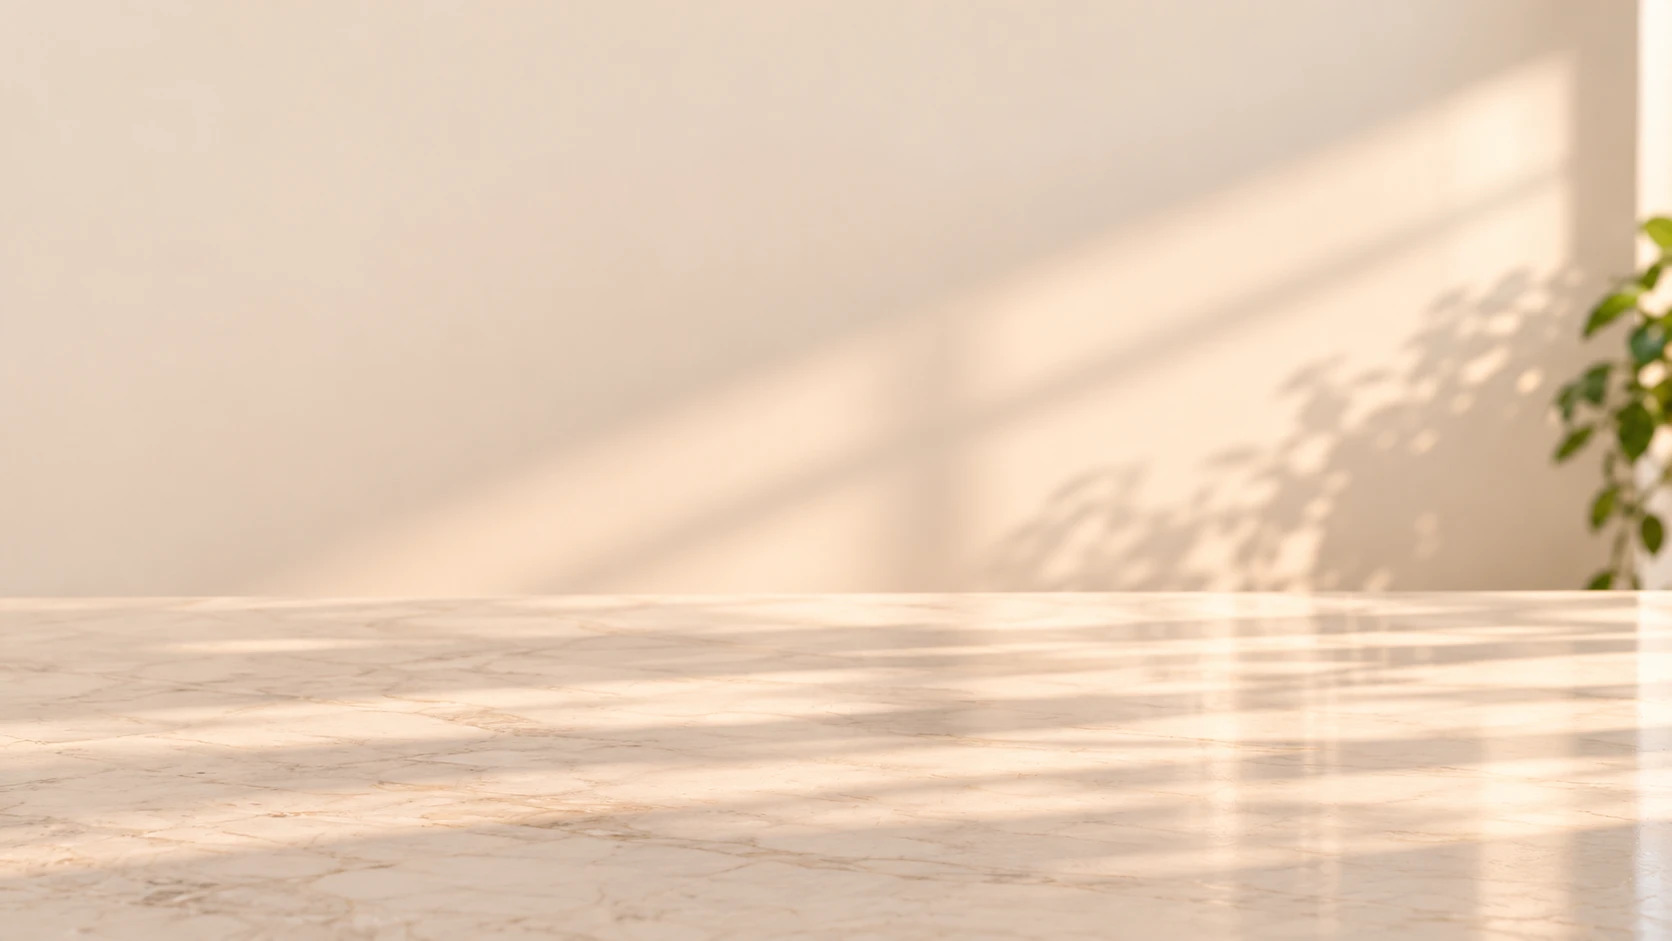
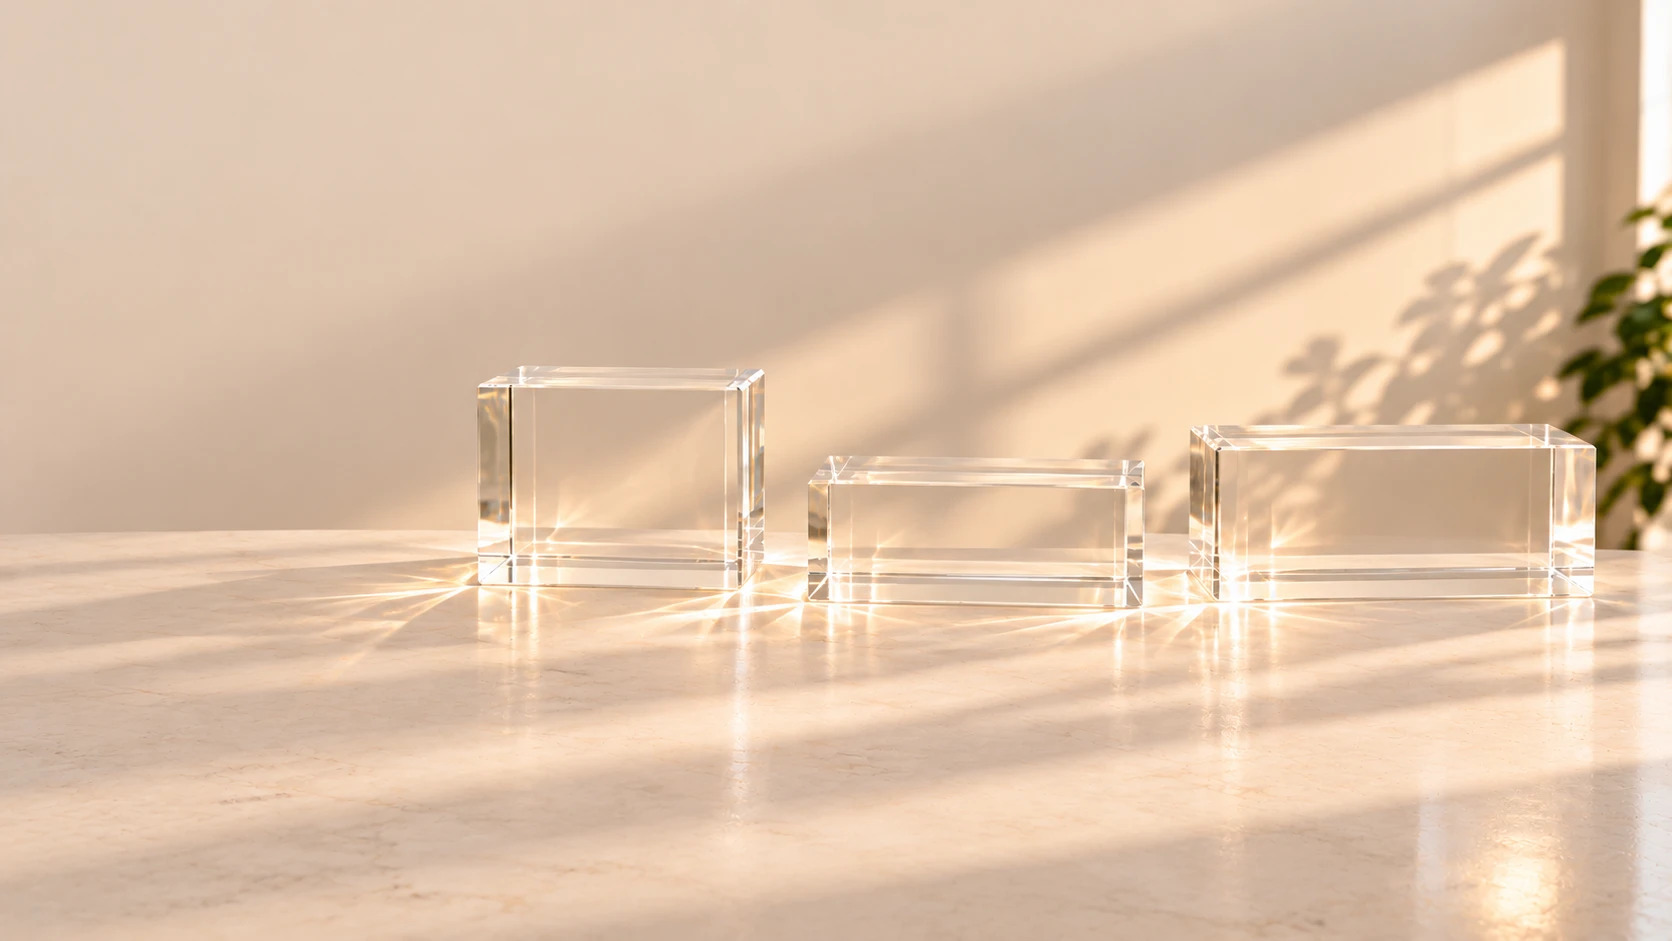
Curiosity homepage: photographic acrylic blocks and museum labels
Use the new background with three photographic acrylic blocks in the
back row (Lab, Experience, Education) and remove all six CSS stands.
The foreground exhibits (Selected Work, About, Contact) sit directly on
the table, with no stand. Labels are now small ivory museum placards
(number, title, short description, arrow): across the lower front of
each block for the back row, and in front of where each foreground
object will go. The back-row blocks are clickable as part of their
exhibit link; each exhibit keeps an empty .ch-object slot for phase 2.

Claude-Session: https://claude.ai/code/session_01Qm8igv5Ge8dJuqu5xyPJW1

diff --git a/src/App.tsx b/src/App.tsx
@@ -367,21 +367,15 @@ function ExhibitLabel({
 }
 
 /* ------------------------------------------------------------------
-   Cabinet-of-curiosities homepage (phase 1: background, type, stands)
-   Geometry is in pixels of the 1672 × 941 reference/background image and
-   converted to container units in CSS, so everything stays locked to the
-   photograph at any size. Each exhibit has an empty `.ch-object` slot for
-   the photorealistic object added in phase 2.
+   Cabinet-of-curiosities homepage
+   Background: public/home-background.jpg (1672 × 941) — cream wall, marble
+   table and three photographic acrylic blocks (back row). Geometry is in
+   pixels of that image and converted to container units in CSS, so the
+   labels and object slots stay locked to the photograph at any size.
+   Each exhibit has an empty `.ch-object` slot for its phase-2 object.
 ------------------------------------------------------------------- */
 
-type Stand = {
-  x: number // front face, top-left corner
-  y: number
-  w: number // front face width
-  h: number // front face height
-  d: number // visible depth of the top face
-  s: number // horizontal shift of the back edge (+ shows right side, − shows left side)
-}
+type Rect = { x: number; y: number; w: number; h: number }
 
 type Exhibit = {
   key: string
@@ -389,94 +383,49 @@ type Exhibit = {
   title: string
   description: string
   href: string
-  stand: Stand
-  label: { x: number; y: number; w: number; h: number; r: number }
+  /** Where the object will sit; for back-row exhibits this includes the acrylic block. */
+  area: Rect
+  /** Back-row exhibits stand on a photographic acrylic block, which is clickable. */
+  onBlock: boolean
+  label: Rect
 }
 
 const exhibits: Exhibit[] = [
   {
     key: "work", number: "01", title: "Selected Work", description: "Case studies and featured projects", href: "#selected-work",
-    stand: { x: 330, y: 786, w: 465, h: 120, d: 40, s: 26 },
-    label: { x: 372, y: 798, w: 398, h: 104, r: -3 },
+    area: { x: 70, y: 500, w: 720, h: 320 }, onBlock: false,
+    label: { x: 420, y: 834, w: 300, h: 64 },
   },
   {
     key: "lab", number: "02", title: "Lab", description: "Technical and creative projects", href: "#lab",
-    stand: { x: 574, y: 498, w: 298, h: 108, d: 22, s: 14 },
-    label: { x: 618, y: 512, w: 254, h: 90, r: -2 },
+    area: { x: 477, y: 150, w: 288, h: 436 }, onBlock: true,
+    label: { x: 500, y: 504, w: 242, h: 62 },
   },
   {
     key: "experience", number: "03", title: "Experience", description: "Professional background", href: "#experience",
-    stand: { x: 870, y: 504, w: 325, h: 112, d: 22, s: 4 },
-    label: { x: 918, y: 520, w: 274, h: 94, r: -2.5 },
+    area: { x: 807, y: 300, w: 336, h: 304 }, onBlock: true,
+    label: { x: 846, y: 522, w: 258, h: 62 },
   },
   {
     key: "education", number: "04", title: "Education", description: "Academic background", href: "#education",
-    stand: { x: 1216, y: 488, w: 404, h: 138, d: 24, s: -14 },
-    label: { x: 1296, y: 512, w: 322, h: 110, r: -2.5 },
+    area: { x: 1190, y: 270, w: 405, h: 328 }, onBlock: true,
+    label: { x: 1262, y: 516, w: 262, h: 62 },
   },
   {
     key: "about", number: "05", title: "About", description: "My approach and interests", href: "#about",
-    stand: { x: 935, y: 760, w: 386, h: 146, d: 32, s: -6 },
-    label: { x: 1020, y: 790, w: 300, h: 114, r: -3 },
+    area: { x: 985, y: 590, w: 290, h: 210 }, onBlock: false,
+    label: { x: 1012, y: 830, w: 236, h: 62 },
   },
   {
     key: "contact", number: "06", title: "Contact", description: "Let’s connect", href: "#contact",
-    stand: { x: 1390, y: 748, w: 246, h: 118, d: 26, s: -18 },
-    label: { x: 1455, y: 768, w: 178, h: 96, r: -4 },
+    area: { x: 1445, y: 540, w: 165, h: 240 }, onBlock: false,
+    label: { x: 1428, y: 808, w: 200, h: 62 },
   },
 ]
 
 const SCENE_W = 1672
 const u = (px: number) => `calc(${px} * var(--ch-unit))`
-
-/** Bounding box and face polygons (in % of the box) for one acrylic stand. */
-function standGeometry({ x, y, w, h, d, s }: Stand) {
-  const left = x + Math.min(0, s)
-  const top = y - d
-  const bw = w + Math.abs(s)
-  const bh = h + d
-  const fx = Math.max(0, -s) // front face left edge inside the box
-  const P = (px: number, py: number) => `${((px / bw) * 100).toFixed(3)}% ${((py / bh) * 100).toFixed(3)}%`
-  const front = [P(fx, d), P(fx + w, d), P(fx + w, bh), P(fx, bh)]
-  const topFace = [P(fx, d), P(fx + w, d), P(fx + w + s, 0), P(fx + s, 0)]
-  const side =
-    s >= 0
-      ? [P(fx + w, d), P(fx + w + s, 0), P(fx + w + s, h), P(fx + w, bh)]
-      : [P(fx, d), P(fx + s, 0), P(fx + s, h), P(fx, bh)]
-  const edges = [
-    // outline of the visible block, drawn as an SVG overlay in box pixels
-    [fx, d, fx + w, d], [fx + w, d, fx + w, bh], [fx, bh, fx + w, bh], [fx, d, fx, bh],
-    [fx, d, fx + s, 0], [fx + w, d, fx + w + s, 0], [fx + s, 0, fx + w + s, 0],
-    s >= 0 ? [fx + w + s, 0, fx + w + s, h] : [fx + s, 0, fx + s, h],
-  ]
-  return { left, top, bw, bh, front, topFace, side, edges, sideRight: s >= 0 }
-}
-
-function AcrylicStand({ stand }: { stand: Stand }) {
-  const g = standGeometry(stand)
-  const poly = (pts: string[]) => ({ clipPath: `polygon(${pts.join(", ")})` })
-  return (
-    <span
-      className="ch-stand"
-      style={{ left: u(g.left), top: u(g.top), width: u(g.bw), height: u(g.bh) }}
-      aria-hidden="true"
-    >
-      <span className="ch-stand__caustic" />
-      <span className="ch-stand__shadow" />
-      <span className="ch-stand__face ch-stand__face--top" style={poly(g.topFace)} />
-      <span className="ch-stand__face ch-stand__face--front" style={poly(g.front)} />
-      <span
-        className={`ch-stand__face ch-stand__face--side ${g.sideRight ? "is-right" : "is-left"}`}
-        style={poly(g.side)}
-      />
-      <svg className="ch-stand__edges" viewBox={`0 0 ${g.bw} ${g.bh}`} preserveAspectRatio="none">
-        {g.edges.map(([x1, y1, x2, y2], i) => (
-          <line key={i} x1={x1} y1={y1} x2={x2} y2={y2} />
-        ))}
-      </svg>
-    </span>
-  )
-}
+const box = (r: Rect) => ({ left: u(r.x), top: u(r.y), width: u(r.w), height: u(r.h) })
 
 function CuriosityHomepage() {
   return (
@@ -505,39 +454,23 @@ function CuriosityHomepage() {
         </section>
 
         <div className="ch-exhibits" aria-label="Explore portfolio sections">
-          {exhibits.map((ex) => {
-            const g = standGeometry(ex.stand)
-            return (
-              <a
-                key={ex.key}
-                className={`ch-exhibit ch-exhibit--${ex.key}`}
-                href={ex.href}
-                aria-label={`${ex.title}: ${ex.description}`}
-              >
-                <AcrylicStand stand={ex.stand} />
-                {/* Phase 2: the photorealistic object for this exhibit goes here. */}
-                <span
-                  className="ch-object"
-                  data-object={ex.key}
-                  style={{ left: u(g.left), top: u(g.top), width: u(g.bw), height: u(g.bh) }}
-                  aria-hidden="true"
-                />
-                <span
-                  className="ch-label"
-                  style={{
-                    left: u(ex.label.x), top: u(ex.label.y), width: u(ex.label.w), height: u(ex.label.h),
-                    transform: `rotate(${ex.label.r}deg)`,
-                  }}
-                  aria-hidden="true"
-                >
-                  <span className="ch-label__number">{ex.number}</span>
-                  <span className="ch-label__title">{ex.title}</span>
-                  <span className="ch-label__description">{ex.description}</span>
-                  <span className="ch-label__arrow">→</span>
-                </span>
-              </a>
-            )
-          })}
+          {exhibits.map((ex) => (
+            <a
+              key={ex.key}
+              className={`ch-exhibit ch-exhibit--${ex.key}${ex.onBlock ? " ch-exhibit--on-block" : ""}`}
+              href={ex.href}
+              aria-label={`${ex.title}: ${ex.description}`}
+            >
+              {/* Phase 2: the photorealistic object for this exhibit goes here. */}
+              <span className="ch-object" data-object={ex.key} style={box(ex.area)} aria-hidden="true" />
+              <span className="ch-label" style={box(ex.label)} aria-hidden="true">
+                <span className="ch-label__number">{ex.number}</span>
+                <span className="ch-label__title">{ex.title}</span>
+                <span className="ch-label__description">{ex.description}</span>
+                <span className="ch-label__arrow">→</span>
+              </span>
+            </a>
+          ))}
         </div>
       </div>
     </main>

diff --git a/src/curiosity-home.css b/src/curiosity-home.css
@@ -1,7 +1,7 @@
 /* ==================================================
    Cabinet-of-curiosities homepage — phase 1
-   Photographic background (public/home-background.jpg, 1672 × 941),
-   real HTML type, six independent acrylic stands and exhibit labels.
+   Photographic background (public/home-background.jpg, 1672 × 941) with
+   three acrylic blocks in the back row, real HTML type and six labels.
    All geometry uses --ch-unit (1 reference pixel), so the scene scales
    as one piece and stays locked to the photograph.
    Everything is scoped to .ch-* classes.
@@ -124,127 +124,68 @@
   inset: 0;
   color: inherit;
   text-decoration: none;
-  pointer-events: none;              /* only the stand, object and label take clicks */
+  pointer-events: none;              /* only the label, block and (later) object take clicks */
 }
 .ch-exhibit:focus-visible { outline: none; }
 .ch-exhibit:focus-visible .ch-label { outline: 2px solid #1e5a55; outline-offset: 4px; }
-.ch-stand, .ch-label, .ch-object { position: absolute; pointer-events: auto; cursor: pointer; }
-.ch-object { pointer-events: none; }  /* becomes clickable once an object is placed */
+.ch-object, .ch-label { position: absolute; }
+.ch-label { pointer-events: auto; cursor: pointer; }
+.ch-object { pointer-events: none; }
+/* The photographic acrylic block of a back-row exhibit is part of its link */
+.ch-exhibit--on-block .ch-object { pointer-events: auto; cursor: pointer; }
 
 /* Layering: back row first, foreground last */
 .ch-exhibit--lab, .ch-exhibit--experience, .ch-exhibit--education { z-index: 1; }
-.ch-exhibit--about, .ch-exhibit--contact { z-index: 2; }
-.ch-exhibit--work { z-index: 3; }
+.ch-exhibit--about, .ch-exhibit--contact, .ch-exhibit--work { z-index: 2; }
 
-/* ---------- Acrylic stand ---------- */
-.ch-stand { display: block; }
-.ch-stand__face {
-  position: absolute;
-  inset: 0;
-  -webkit-backdrop-filter: blur(calc(1.4 * var(--ch-unit))) brightness(1.06) saturate(1.06);
-  backdrop-filter: blur(calc(1.4 * var(--ch-unit))) brightness(1.06) saturate(1.06);
-}
-/* Front: clear block with faint internal reflections and a bright base where light pools */
-.ch-stand__face--front {
-  -webkit-backdrop-filter: blur(calc(2.2 * var(--ch-unit))) brightness(1.1) saturate(1.05);
-  backdrop-filter: blur(calc(2.2 * var(--ch-unit))) brightness(1.1) saturate(1.05);
-  background:
-    linear-gradient(180deg, rgba(255,255,255,.55) 0%, rgba(255,255,255,.12) 6%, rgba(255,255,255,0) 14%),
-    linear-gradient(0deg, rgba(255,246,222,.85) 0%, rgba(255,246,222,.25) 10%, rgba(255,246,222,0) 22%),
-    linear-gradient(90deg, rgba(255,255,255,.55) 0%, rgba(255,255,255,.08) 4%, rgba(255,255,255,0) 9%, rgba(255,255,255,0) 91%, rgba(255,255,255,.1) 96%, rgba(255,255,255,.6) 100%),
-    repeating-linear-gradient(90deg, rgba(255,255,255,0) 0 11%, rgba(255,255,255,.22) 11.4% 12%, rgba(255,255,255,0) 12.6% 23%),
-    linear-gradient(100deg, rgba(255,250,238,.22), rgba(255,250,238,.10) 45%, rgba(255,250,238,.24));
-}
-/* Top: catches the sunlight */
-.ch-stand__face--top {
-  -webkit-backdrop-filter: blur(calc(1.8 * var(--ch-unit))) brightness(1.12) saturate(1.04);
-  backdrop-filter: blur(calc(1.8 * var(--ch-unit))) brightness(1.12) saturate(1.04);
-  background: linear-gradient(170deg, rgba(255,252,240,.42), rgba(255,250,236,.18));
-}
-/* Side: thickness of the block refracts more strongly */
-.ch-stand__face--side {
-  -webkit-backdrop-filter: blur(calc(2.5 * var(--ch-unit))) brightness(1.16);
-  backdrop-filter: blur(calc(2.5 * var(--ch-unit))) brightness(1.16);
-  background: linear-gradient(90deg, rgba(255,255,255,.36), rgba(255,244,220,.14));
-}
-.ch-stand__face--side.is-left { background: linear-gradient(270deg, rgba(255,255,255,.36), rgba(255,244,220,.14)); }
-
-/* Crisp polished edges */
-.ch-stand__edges {
-  position: absolute;
-  inset: 0;
-  width: 100%;
-  height: 100%;
-  overflow: visible;
-}
-.ch-stand__edges line {
-  stroke: rgba(255, 255, 255, .95);
-  stroke-width: 1.6;
-  vector-effect: non-scaling-stroke;
-}
-
-/* Contact shadow along the base, falling away from the light (upper right) */
-.ch-stand__shadow {
-  position: absolute;
-  left: -2%;
-  right: 4%;
-  bottom: calc(-10 * var(--ch-unit));
-  height: calc(22 * var(--ch-unit));
-  border-radius: 50%;
-  background: radial-gradient(closest-side, rgba(92, 64, 34, .34), rgba(92, 64, 34, 0));
-  filter: blur(calc(3 * var(--ch-unit)));
-  mix-blend-mode: multiply;
-}
-/* Light focused through the acrylic onto the table */
-.ch-stand__caustic {
-  position: absolute;
-  left: -16%;
-  width: 70%;
-  bottom: calc(-34 * var(--ch-unit));
-  height: calc(48 * var(--ch-unit));
-  border-radius: 50%;
-  background:
-    repeating-linear-gradient(100deg, rgba(255, 244, 214, 0) 0 6%, rgba(255, 244, 214, .9) 7% 8%, rgba(255, 244, 214, 0) 10% 15%),
-    radial-gradient(closest-side, rgba(255, 238, 200, .7), rgba(255, 238, 200, 0));
-  -webkit-mask: radial-gradient(closest-side, #000 40%, transparent);
-  mask: radial-gradient(closest-side, #000 40%, transparent);
-  mix-blend-mode: screen;
-}
-
-/* ---------- Exhibit labels ---------- */
+/* ---------- Museum labels ----------
+   Small ivory placards: a hairline rule, number, title in spaced capitals,
+   a short description and a quiet arrow. */
 .ch-label {
   box-sizing: border-box;
   display: grid;
   grid-template-columns: 1fr auto;
-  grid-template-rows: auto auto 1fr;
+  grid-template-rows: auto auto auto;
   align-content: center;
-  padding: calc(14 * var(--ch-unit)) calc(30 * var(--ch-unit)) calc(14 * var(--ch-unit)) calc(32 * var(--ch-unit));
-  background: linear-gradient(180deg, #fbf8f2, #f3eee5);
-  box-shadow:
-    0 calc(1 * var(--ch-unit)) 0 rgba(255,255,255,.9) inset,
-    0 calc(10 * var(--ch-unit)) calc(18 * var(--ch-unit)) rgba(92, 64, 34, .14);
+  column-gap: calc(12 * var(--ch-unit));
+  padding: calc(9 * var(--ch-unit)) calc(16 * var(--ch-unit)) calc(9 * var(--ch-unit)) calc(18 * var(--ch-unit));
+  background: rgba(251, 248, 242, .9);
+  border: 1px solid rgba(120, 98, 70, .16);
+  box-shadow: 0 calc(4 * var(--ch-unit)) calc(10 * var(--ch-unit)) rgba(92, 64, 34, .10);
   color: var(--ch-ink);
-  transform-origin: left bottom;
-  transition: transform .35s cubic-bezier(.2,.7,.2,1), box-shadow .35s ease;
+  transition: background .3s ease, box-shadow .3s ease;
 }
-.ch-label__number { grid-column: 1; font-size: calc(15 * var(--ch-unit)); letter-spacing: .06em; }
+.ch-label__number {
+  grid-column: 1;
+  font-size: calc(10.5 * var(--ch-unit));
+  letter-spacing: .14em;
+  color: #6b6a62;
+}
 .ch-label__title {
   grid-column: 1;
-  margin-top: calc(4 * var(--ch-unit));
-  font-size: calc(17 * var(--ch-unit));
-  letter-spacing: .12em;
+  margin-top: calc(2 * var(--ch-unit));
+  font-size: calc(13 * var(--ch-unit));
+  letter-spacing: .16em;
   text-transform: uppercase;
 }
-.ch-label__description { grid-column: 1; margin-top: calc(3 * var(--ch-unit)); color: #4f5650; font-size: calc(12.5 * var(--ch-unit)); }
+.ch-label__description {
+  grid-column: 1;
+  margin-top: calc(1 * var(--ch-unit));
+  color: #5d625c;
+  font-size: calc(10.5 * var(--ch-unit));
+  line-height: 1.3;
+}
 .ch-label__arrow {
   grid-column: 2;
-  grid-row: 1 / 3;
+  grid-row: 1 / 4;
   align-self: center;
-  font-size: calc(24 * var(--ch-unit));
+  font-size: calc(16 * var(--ch-unit));
   transition: transform .3s ease;
 }
+.ch-exhibit:hover .ch-label,
+.ch-exhibit:focus-visible .ch-label { background: rgba(253, 251, 247, .98); box-shadow: 0 calc(6 * var(--ch-unit)) calc(14 * var(--ch-unit)) rgba(92, 64, 34, .14); }
 .ch-exhibit:hover .ch-label__arrow,
-.ch-exhibit:focus-visible .ch-label__arrow { transform: translateX(calc(5 * var(--ch-unit))); }
+.ch-exhibit:focus-visible .ch-label__arrow { transform: translateX(calc(4 * var(--ch-unit))); }
 
 /* ---------- Temporary placeholder sections ---------- */
 .ch-placeholders { background: #f1efe8; }
